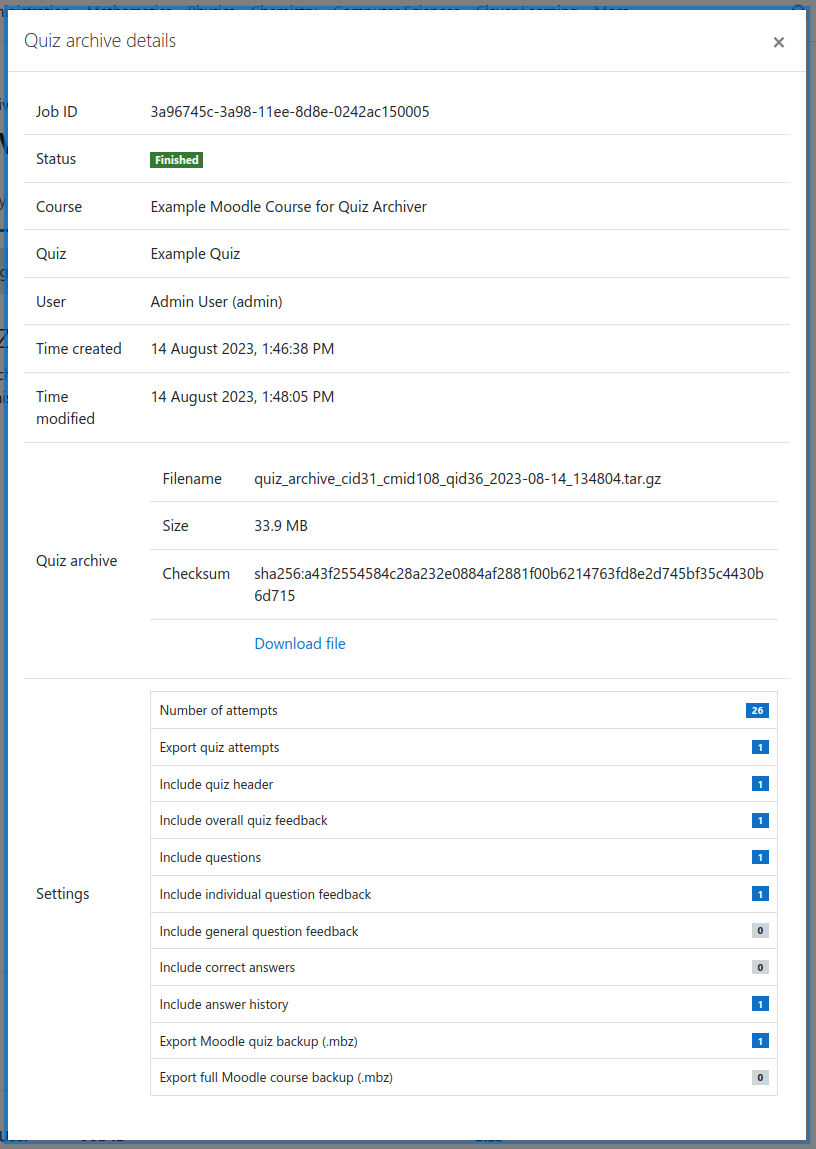
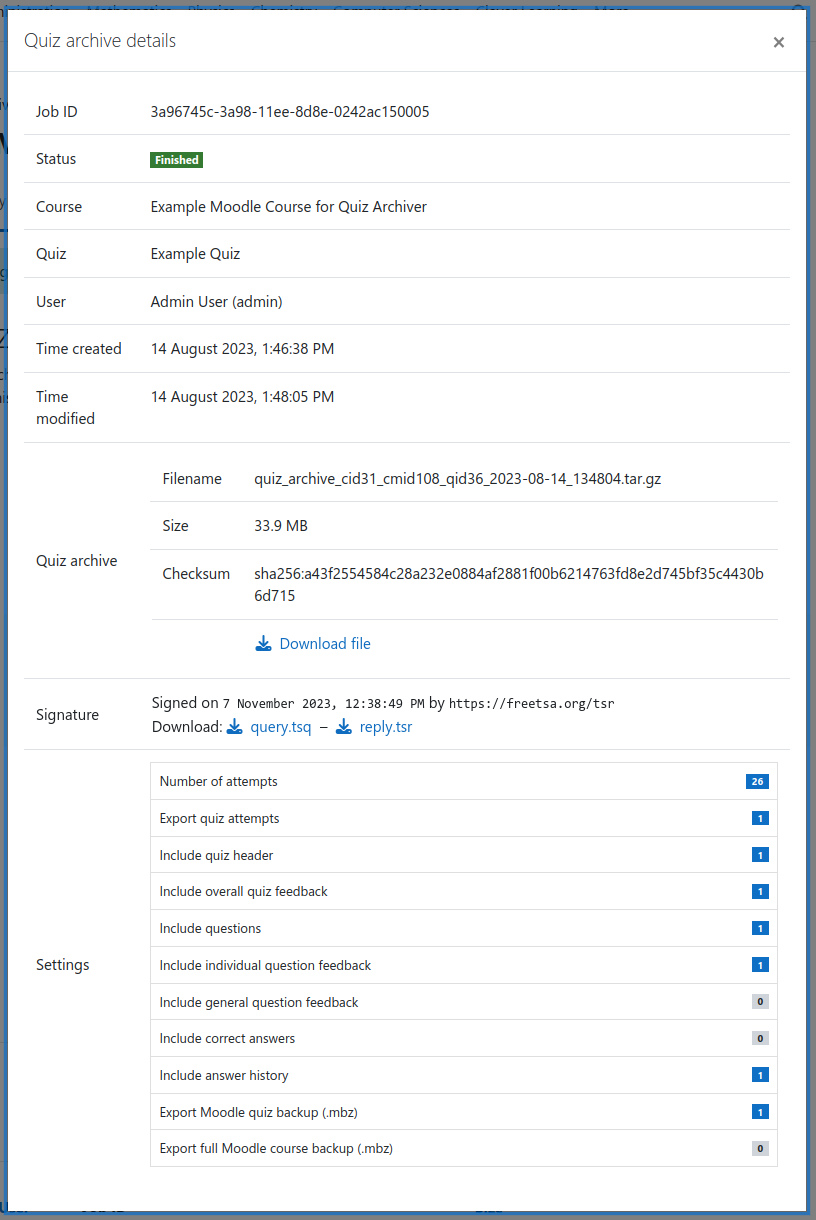
Describe configuration and use of TSP functionality in README

diff --git a/README.md b/README.md
@@ -15,6 +15,8 @@ Archives quiz attempts as PDF and HTML files for long-term storage independent
 of Moodle. If desired, Moodle backups (`.mbz`) of both the quiz and the whole
 course can be included. A checksum is calculated for every file within the
 archive, as well as the archive itself, to allow verification of file integrity.
+Archives can optionally be cryptographically signed by a trusted authority using
+the [Time-Stamp Protocol (TSP)](https://en.wikipedia.org/wiki/Time_stamp_protocol).
 Comprehensive archive settings allow selecting what should be included in the
 generated reports on a fine-granular level (e.g., exclude example solutions,
 include answer history, ...).
@@ -265,6 +267,56 @@ or included components, can be viewed by clicking the `Details` button.
 
 If you encounter permission errors, ensure that the user has the required
 [Capabilities](#capabilities) assigned.
+
+
+## Advanced Topics
+
+This section discusses advanced usage of the plugin.
+
+
+### Quiz archive signing using the Time-Stamp Protocol (TSP)
+
+Quiz archives and their creation date can be digitally signed by a trusted
+authority using the [Time-Stamp Protocol (TSP)](https://en.wikipedia.org/wiki/Time_stamp_protocol)
+according to [RFC 3161](https://www.ietf.org/rfc/rfc3161.txt). This can be used
+to cryptographically prove the integrity and creation date of the archive at a
+later point in time. Quiz archives can be signed automatically at creation or
+manually later on.
+
+#### Enable archive signing globally
+
+1. Navigate to _Site Administration_ > _Plugins_ (1) > _Activity modules_ >
+   _Quiz_ > _Quiz Archiver_ (2)
+2. Set `tsp_server_url` (3) to the URL of your desired TSP service
+3. Globally enable archive signing by checking `tsp_enable` (4)
+4. (Optional) Enable automatic archive signing by checking `tsp_automatic_signing` (5)
+5. Save all settings (6)
+
+[![Screenshot: Configuration - TSP Settings 1](doc/configuration/configuration_plugin_settings_1_thumb.png)](doc/configuration/configuration_plugin_settings_1.png)
+[![Screenshot: Configuration - TSP Settings 2](doc/configuration/configuration_tsp_settings_2_thumb.png)](doc/configuration/configuration_tsp_settings_2.png)
+
+
+#### Accessing TSP data
+
+Both the TSP query and the TSP response can be accessed via the job details
+dialog. To do so, navigate to the quiz archiver overview page and click the
+_Show details_ button for the desired archive job.
+
+![Image of archive job details: TSP data](doc/screenshots/quiz_archiver_job_details_modal_tsp_data.png)
+
+
+#### Automatic archive signing
+
+If enabled, new archives will be automatically signed during creation. TSP data
+can be accessed via the _Show details_ button of an archive job on the quiz
+archiver overview page. Existing archives will not be signed automatically (see
+[Manual archive signing](#manual-archive-signing)).
+
+#### Manual archive signing
+
+To manually sign a quiz archive, navigate to the quiz archiver overview page,
+click the _Show details_ button for the desired archive job, and click the
+_Sign archive now_ button.
 
 
 ## Screenshots
